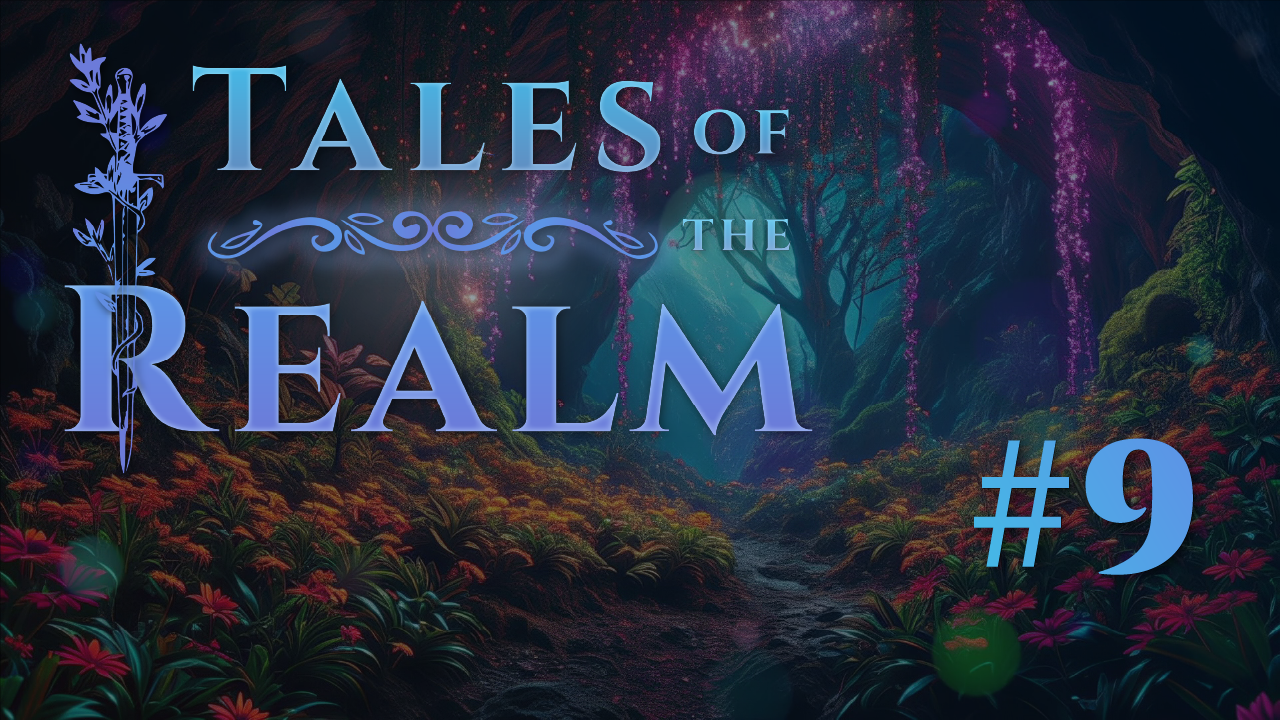
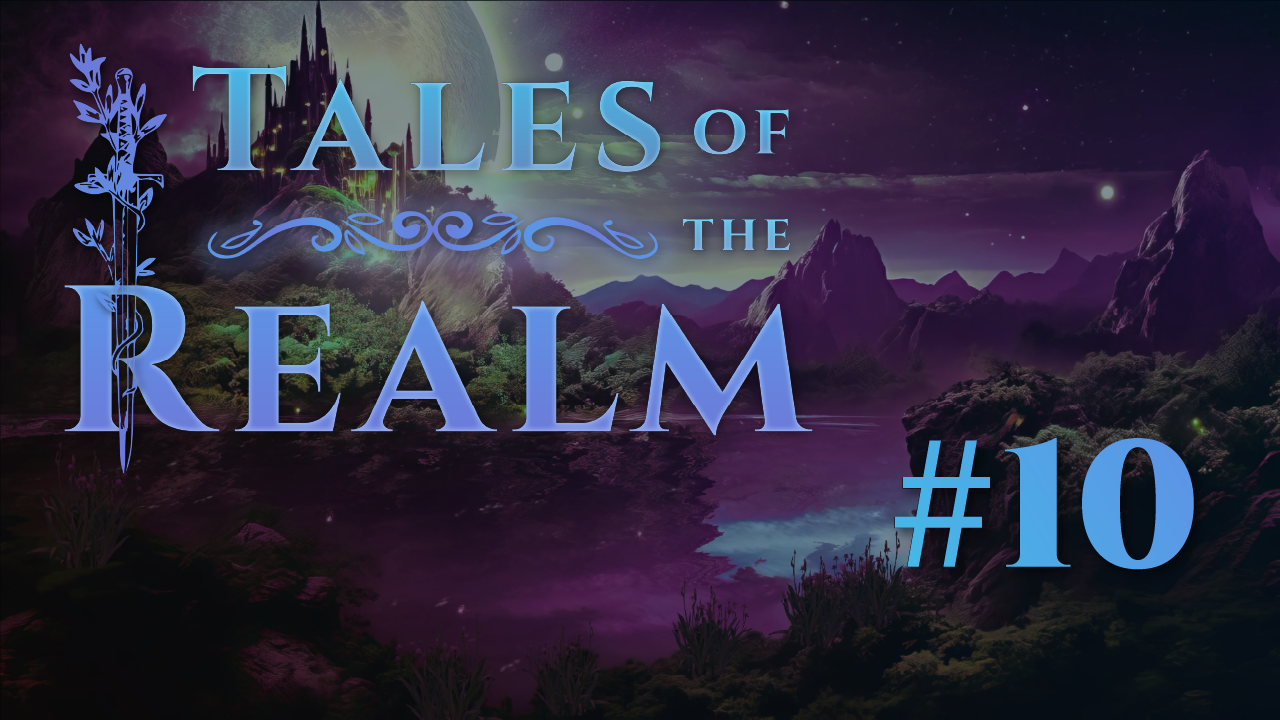
Update of 03.08.2024

diff --git a/index.html b/index.html
@@ -552,7 +552,7 @@
                     <p>La série en cours…</p>
                     <img src="/assets/images/thumbnails/tales-of-the-realm-thumbnail-1.png" alt="Miniature de la série en cours">
                 </a>
-                <a target="_blank" href="https://youtu.be/jmyGQHmBKKc">
+                <a target="_blank" href="https://youtu.be/h2TIarCJTqs">
                     <p>L'un des derniers épisodes sortis…</p>
                     <img src="/assets/images/thumbnails/tales-of-the-realm-thumbnail-2.png" alt="Miniature de l'un des derniers épisodes sortis">
                 </a>
